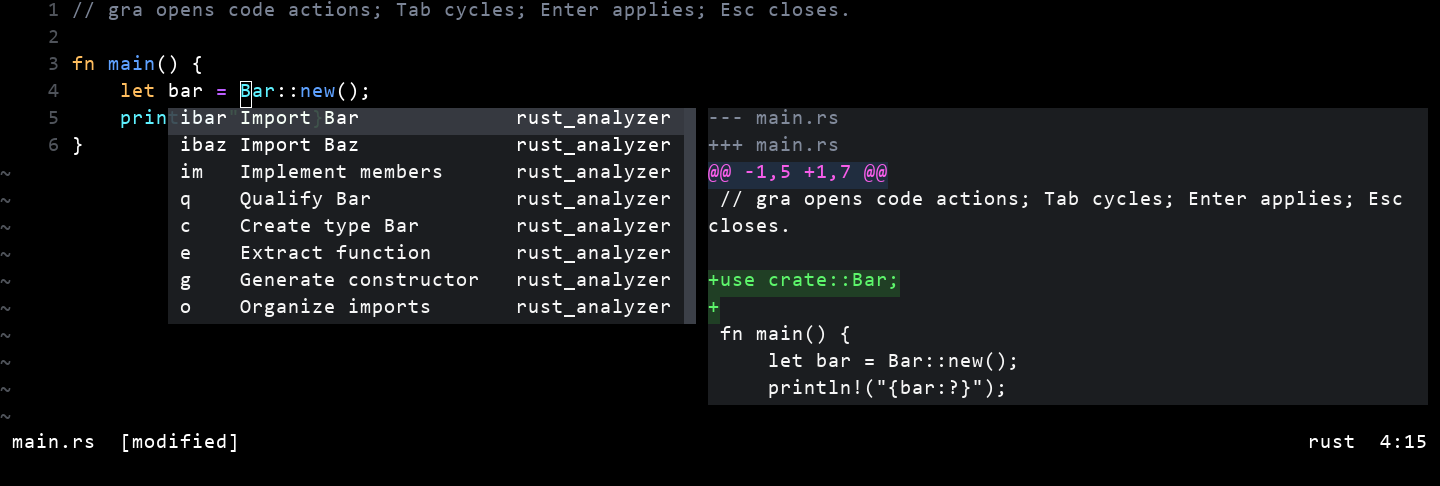
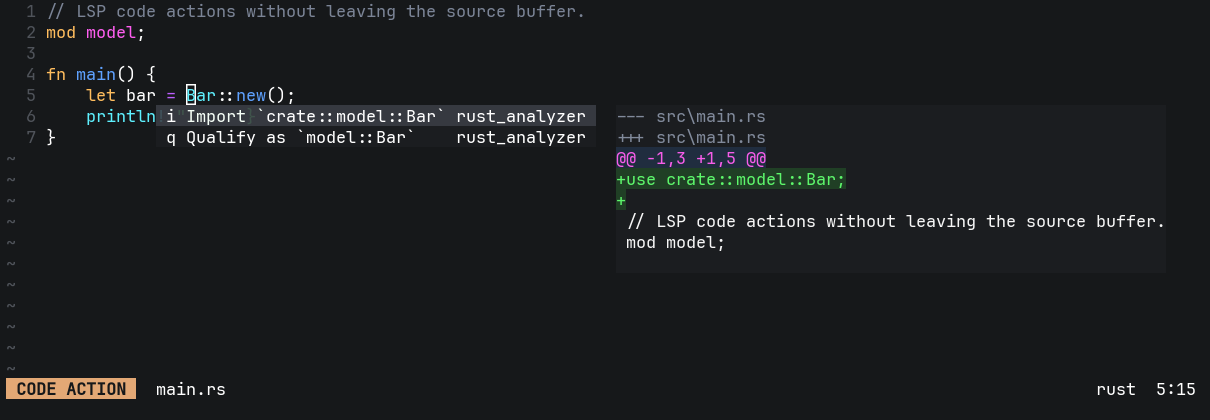
Replace demo image with a WezTerm screenshot

diff --git a/README.md b/README.md
@@ -3,7 +3,7 @@
 Blink-style LSP code actions in a Normal-mode submode. Your source buffer keeps
 focus; actions and a diff appear beside the cursor.
 
-![sub-action.nvim](assets/demo.png)
+![sub-action.nvim in WezTerm](assets/demo.png)
 
 ## Installation
 
